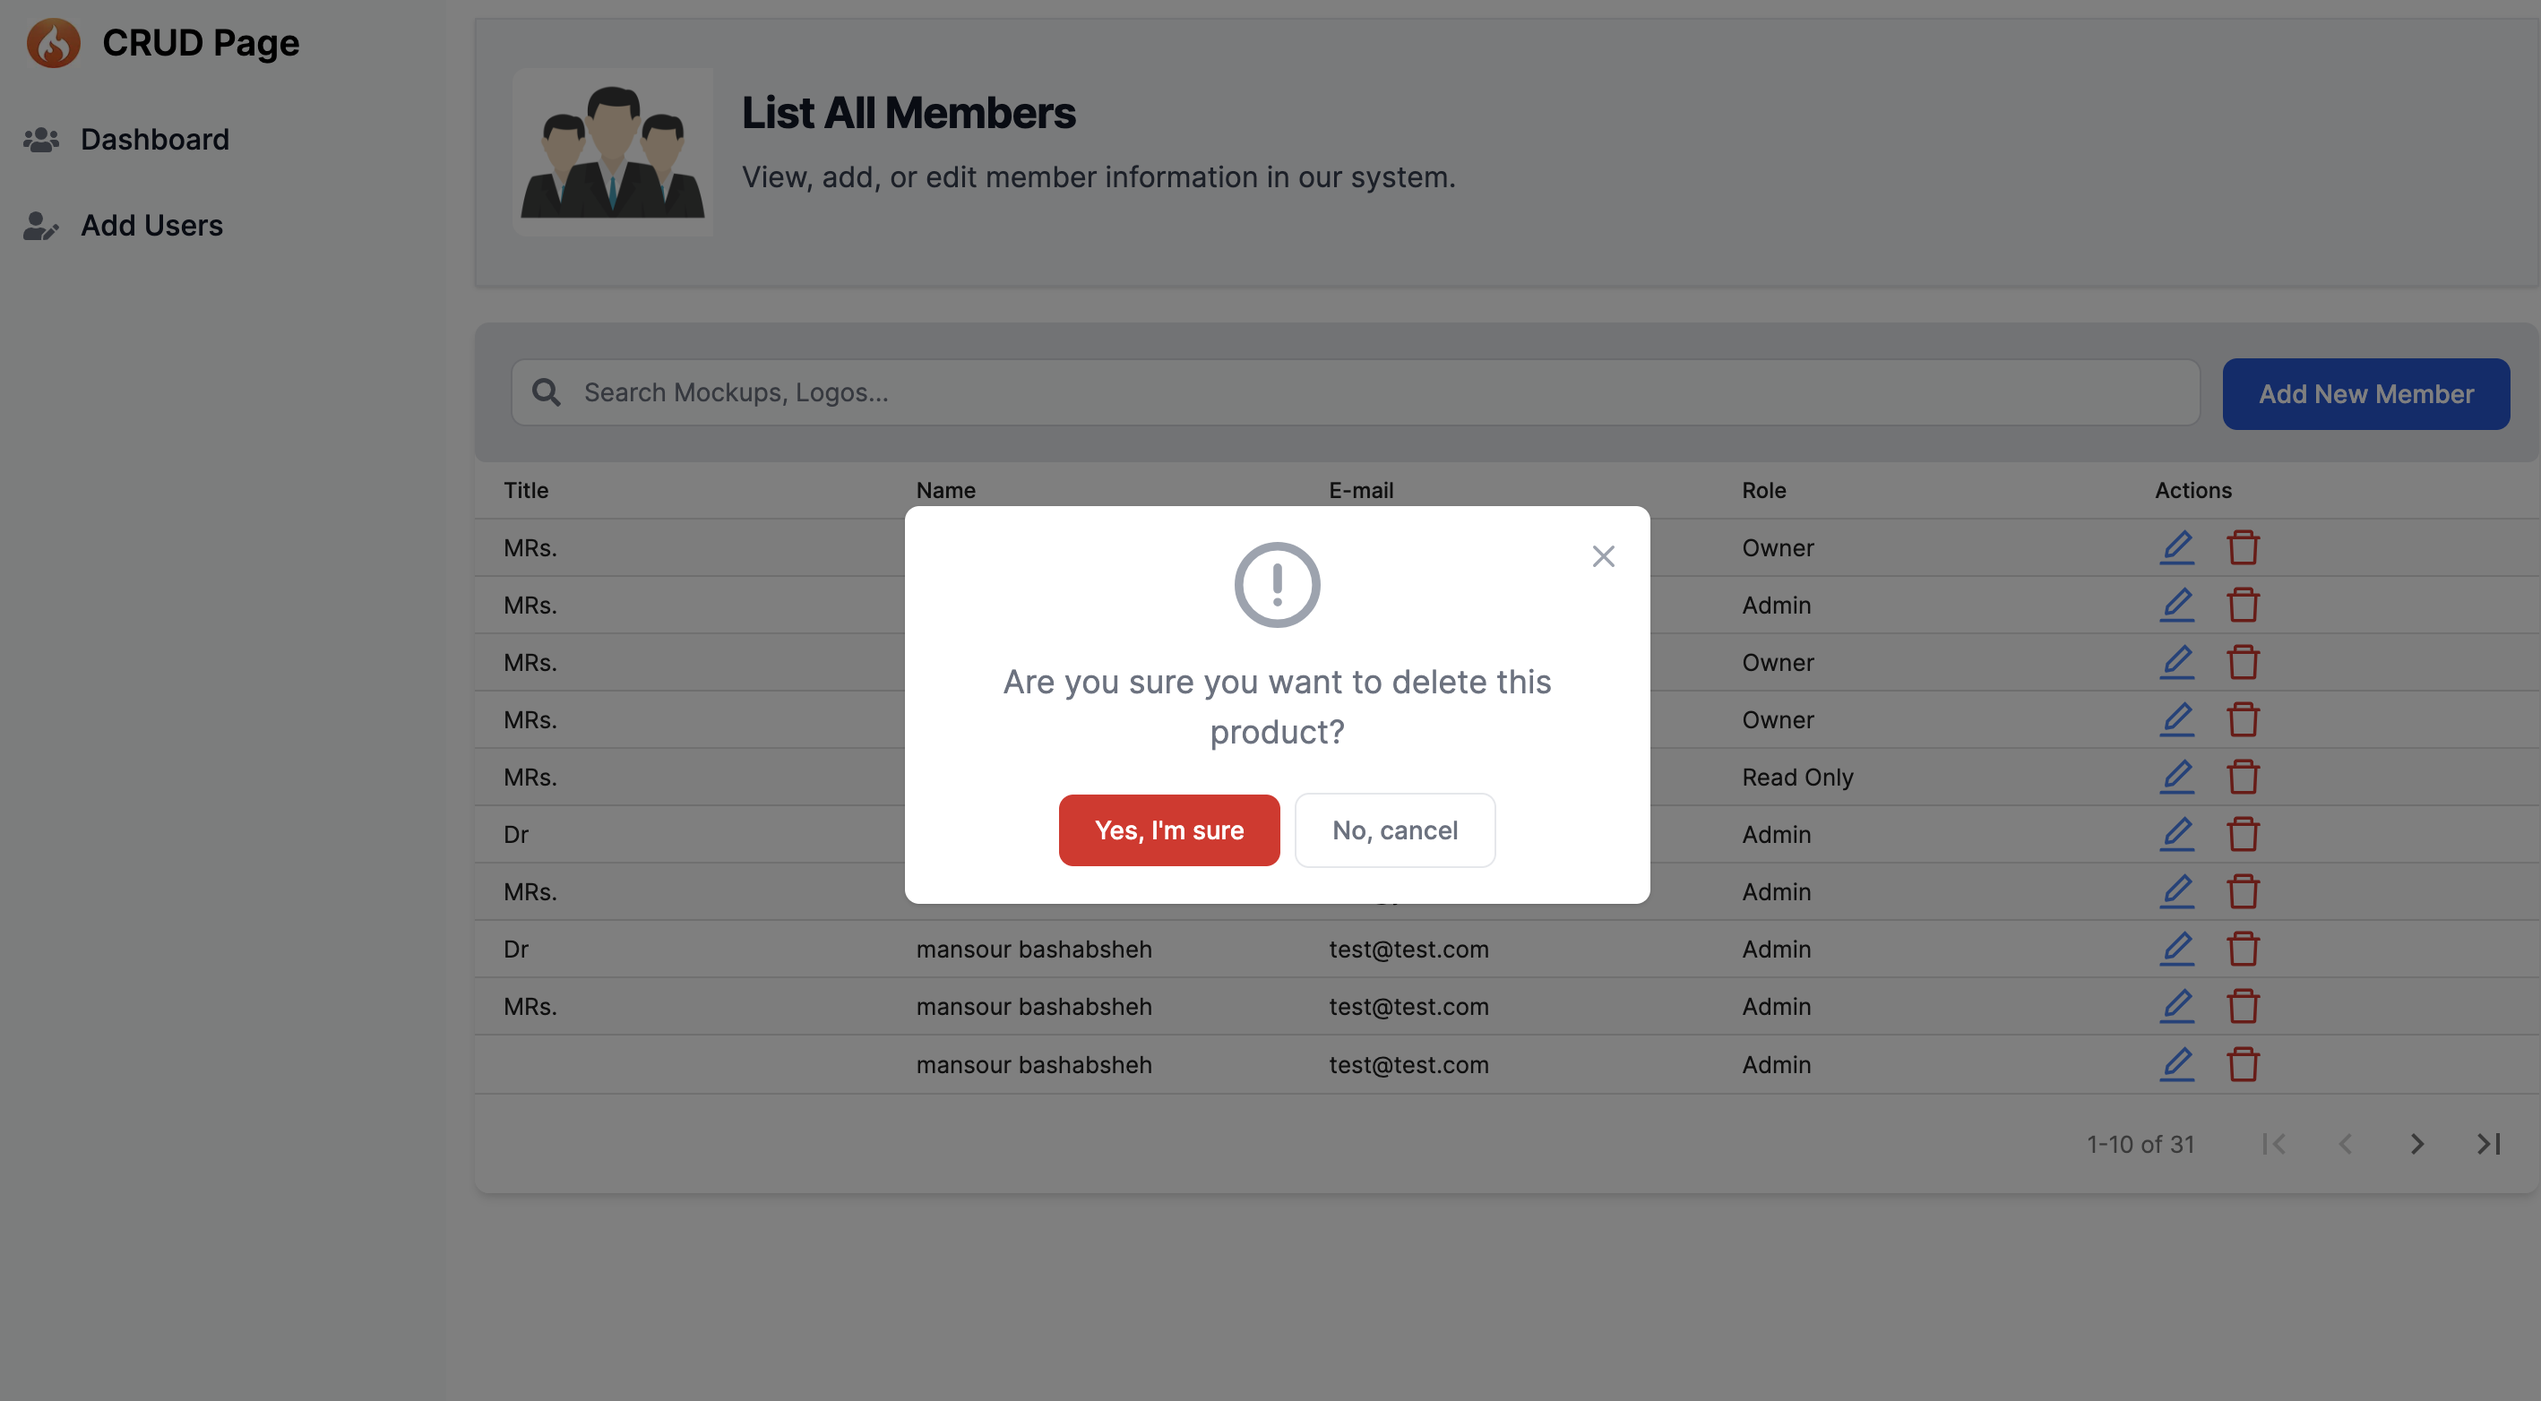
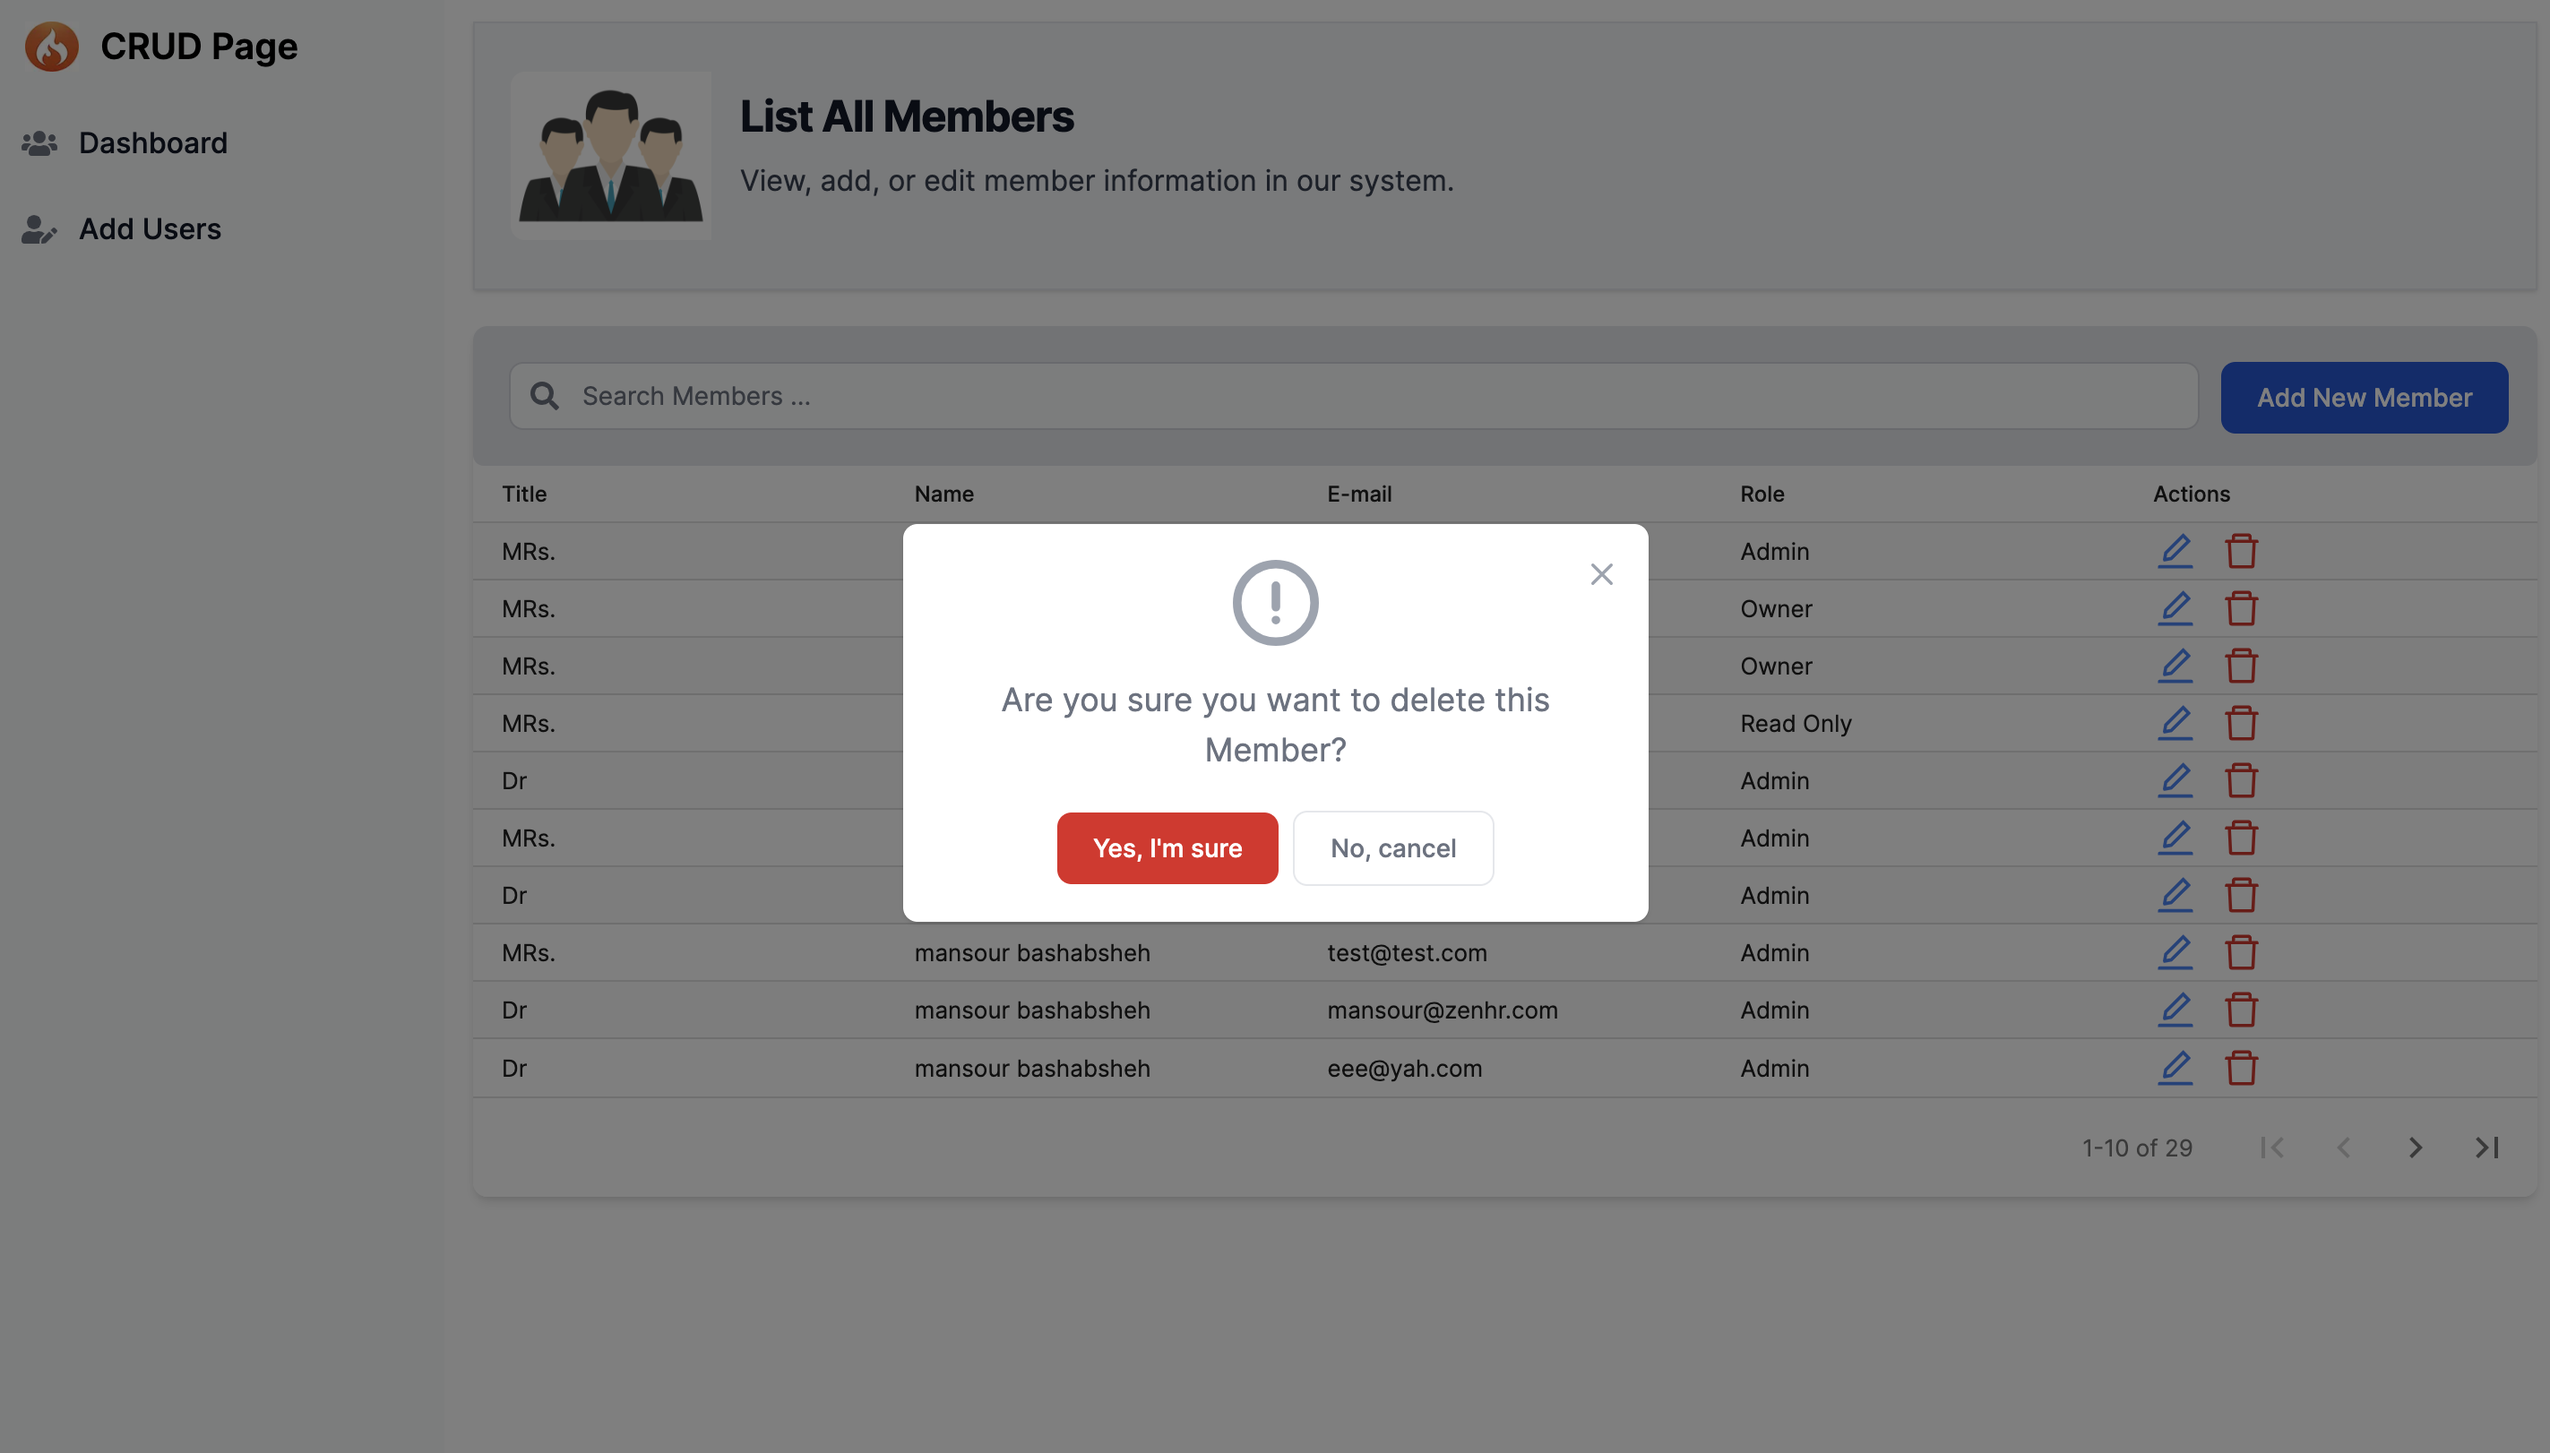
replace images to show it on readme file

diff --git a/app/components/MemberTable.tsx b/app/components/MemberTable.tsx
@@ -94,7 +94,7 @@ const MemberTable: React.FC<MemberListProps> = ({ membersList }) => {
 
                   <FaSearch className="w-4 h-4 text-gray-500 dark:text-gray-400" size={20} />
               </div>
-              <input value={searchTerm} onChange={(e) => setSearchTerm(e.target.value)} type="search" id="default-search" className="block w-full p-2 ps-10 text-sm text-gray-900 border border-gray-300 rounded-lg bg-gray-50 focus:ring-blue-500 focus:border-blue-500 dark:bg-gray-700 dark:border-gray-600 dark:placeholder-gray-400 dark:text-white dark:focus:ring-blue-500 dark:focus:border-blue-500" placeholder="Search Mockups, Logos..." required />
+              <input value={searchTerm} onChange={(e) => setSearchTerm(e.target.value)} type="search" id="default-search" className="block w-full p-2 ps-10 text-sm text-gray-900 border border-gray-300 rounded-lg bg-gray-50 focus:ring-blue-500 focus:border-blue-500 dark:bg-gray-700 dark:border-gray-600 dark:placeholder-gray-400 dark:text-white dark:focus:ring-blue-500 dark:focus:border-blue-500" placeholder="Search Members ..." required />
           </div>
         </div>
         <Link

diff --git a/app/components/DeleteModal.tsx b/app/components/DeleteModal.tsx
@@ -59,7 +59,7 @@ const DeleteModal: React.FC<ModalProps> = ({ isModalOpen, closeModal, rowID }) =
                   />
                 </svg>
                 <h3 className="mb-5 text-lg font-normal text-gray-500 dark:text-gray-400">
-                  Are you sure you want to delete this product?
+                  Are you sure you want to delete this Member?
                 </h3>
                 <button
                   onClick={() => {
